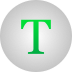
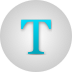
Change global theme color

Changed region(s): [[0.2778, 0.25, 0.7222, 0.7778]]

diff --git a/ios/TypeOneTwo/AppDelegate.swift b/ios/TypeOneTwo/AppDelegate.swift
@@ -28,9 +28,9 @@ class AppDelegate: UIResponder, UIApplicationDelegate {
     }
 
     func configureAppearance(application: UIApplication) {
-        UINavigationBar.appearance().barTintColor = typeOneTwoGreen
+        UINavigationBar.appearance().barTintColor = globalThemeColor
         UINavigationBar.appearance().tintColor = UIColor.whiteColor()
         UINavigationBar.appearance().barStyle = .Black
-        UITabBar.appearance().tintColor = typeOneTwoGreen
+        UITabBar.appearance().tintColor = globalThemeColor
     }
 }

diff --git a/ios/TypeOneTwo/Constants.swift b/ios/TypeOneTwo/Constants.swift
@@ -6,4 +6,4 @@
 //  Copyright (c) 2014 TypeOneTwo. All rights reserved.
 //
 
-let typeOneTwoGreen = UIColor(red: 0, green: 217.0/255.0, blue: 72.0/255.0, alpha: 1)
+let globalThemeColor = UIColor(red: 0/255.0, green: 188.0/255.0, blue: 212.0/255.0, alpha: 1)
